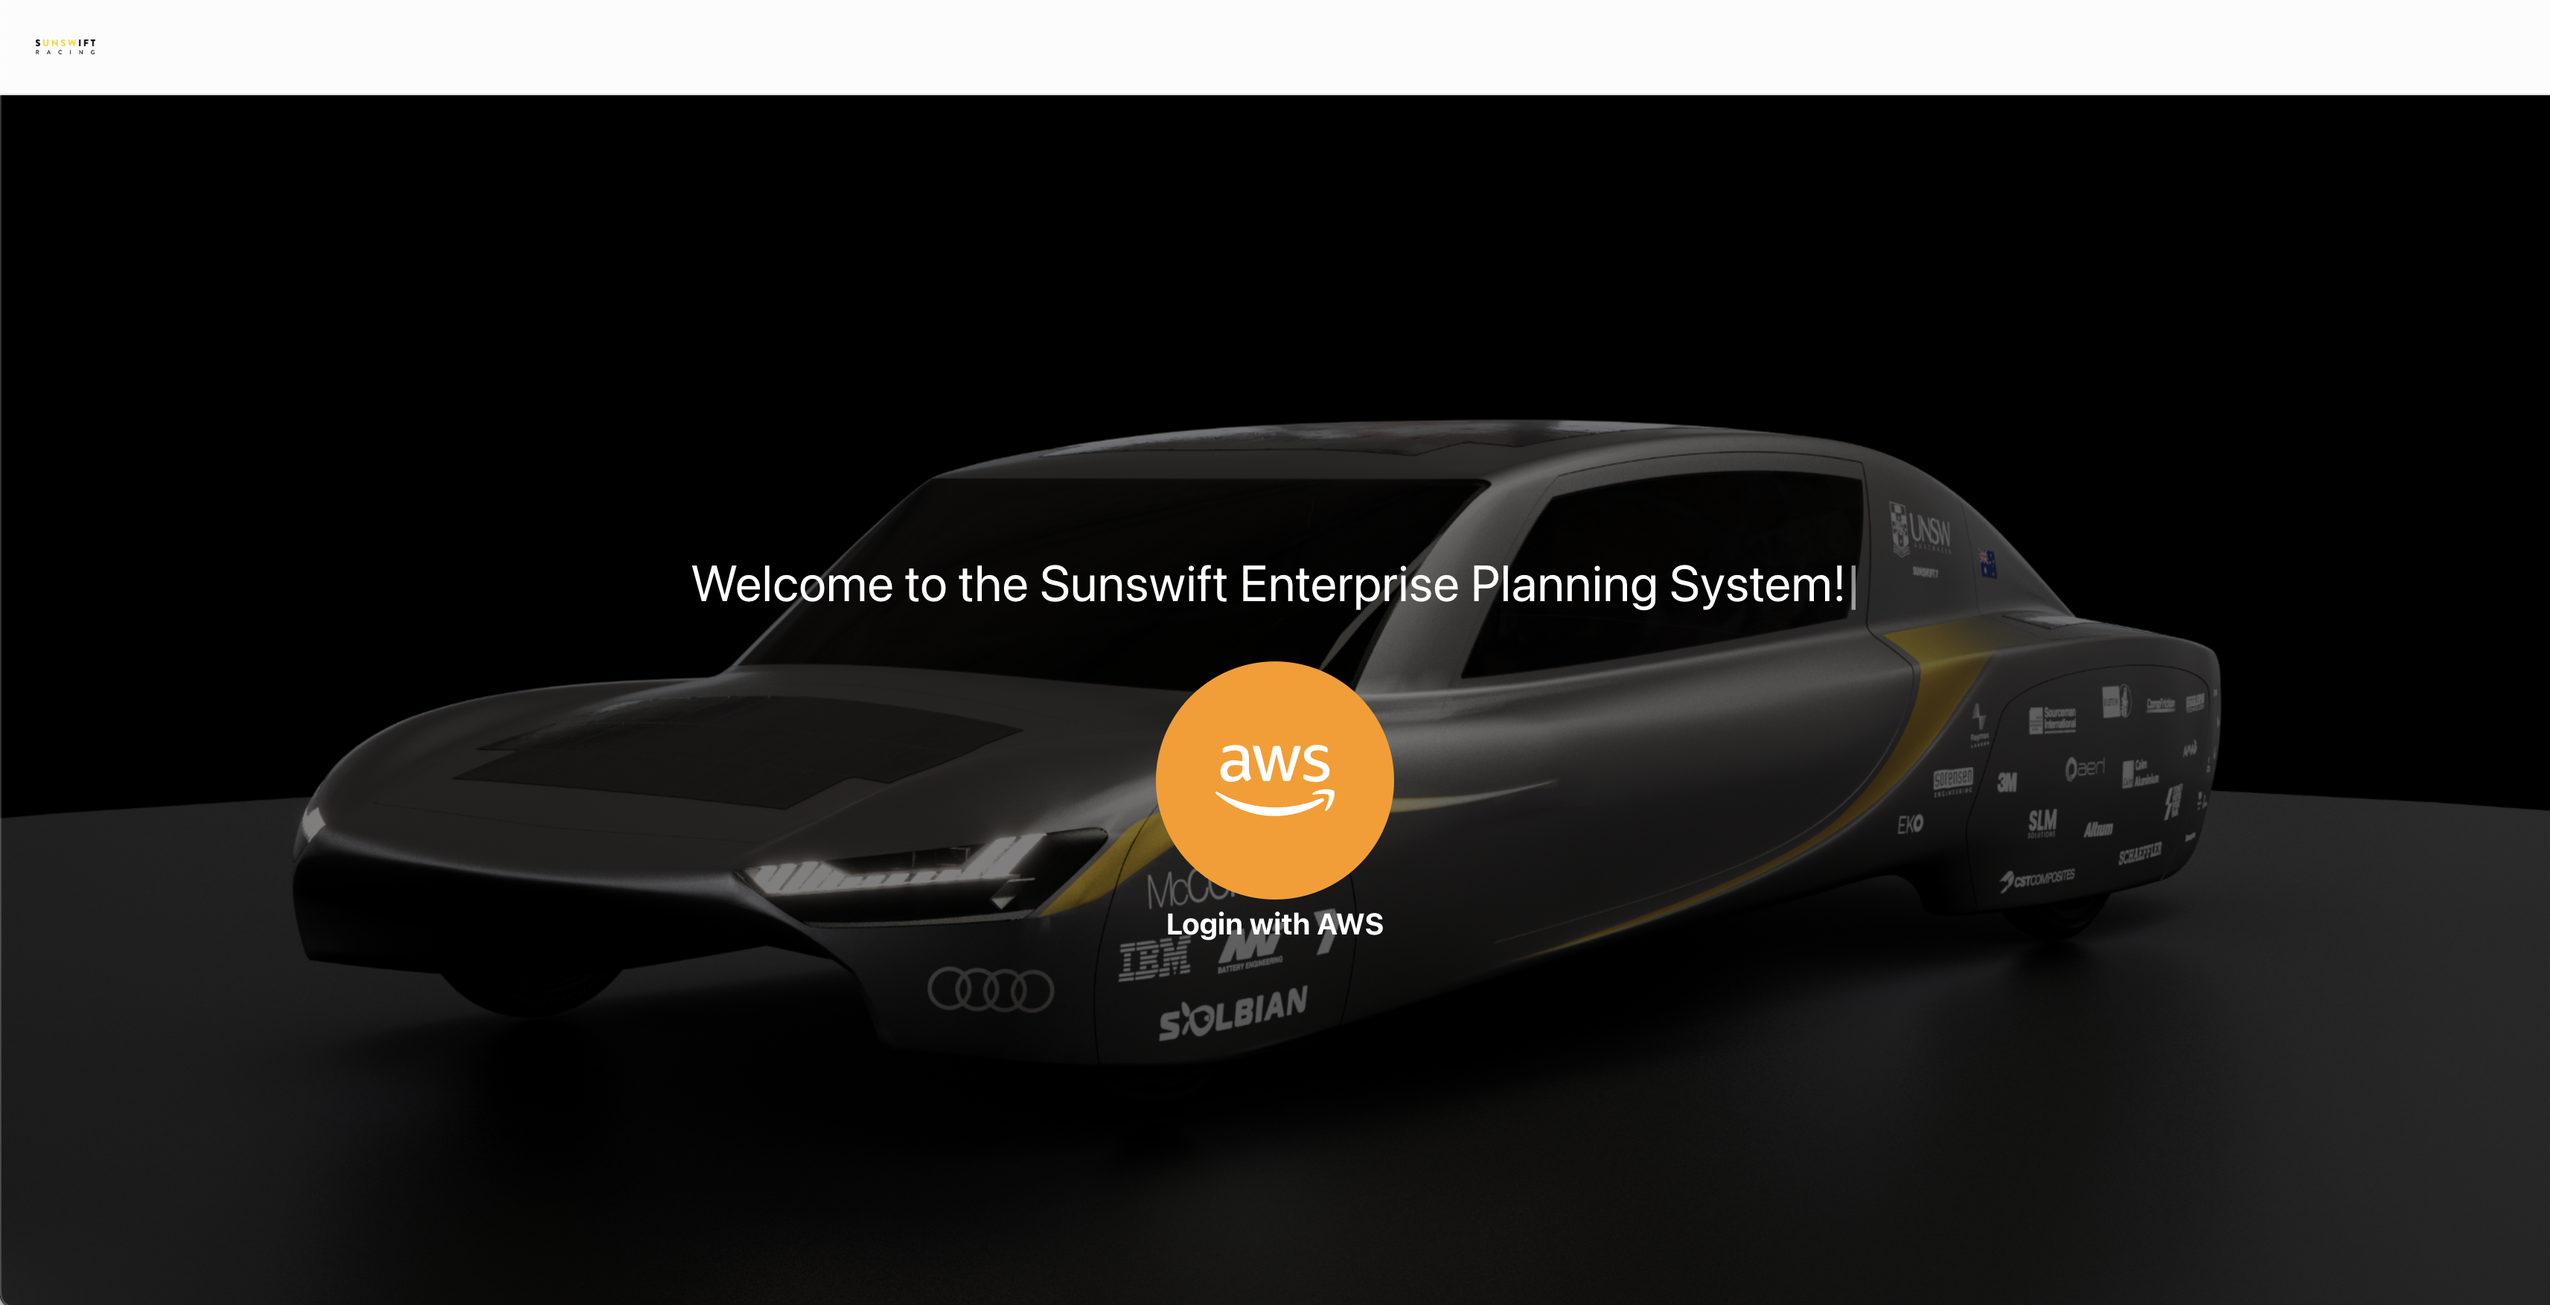
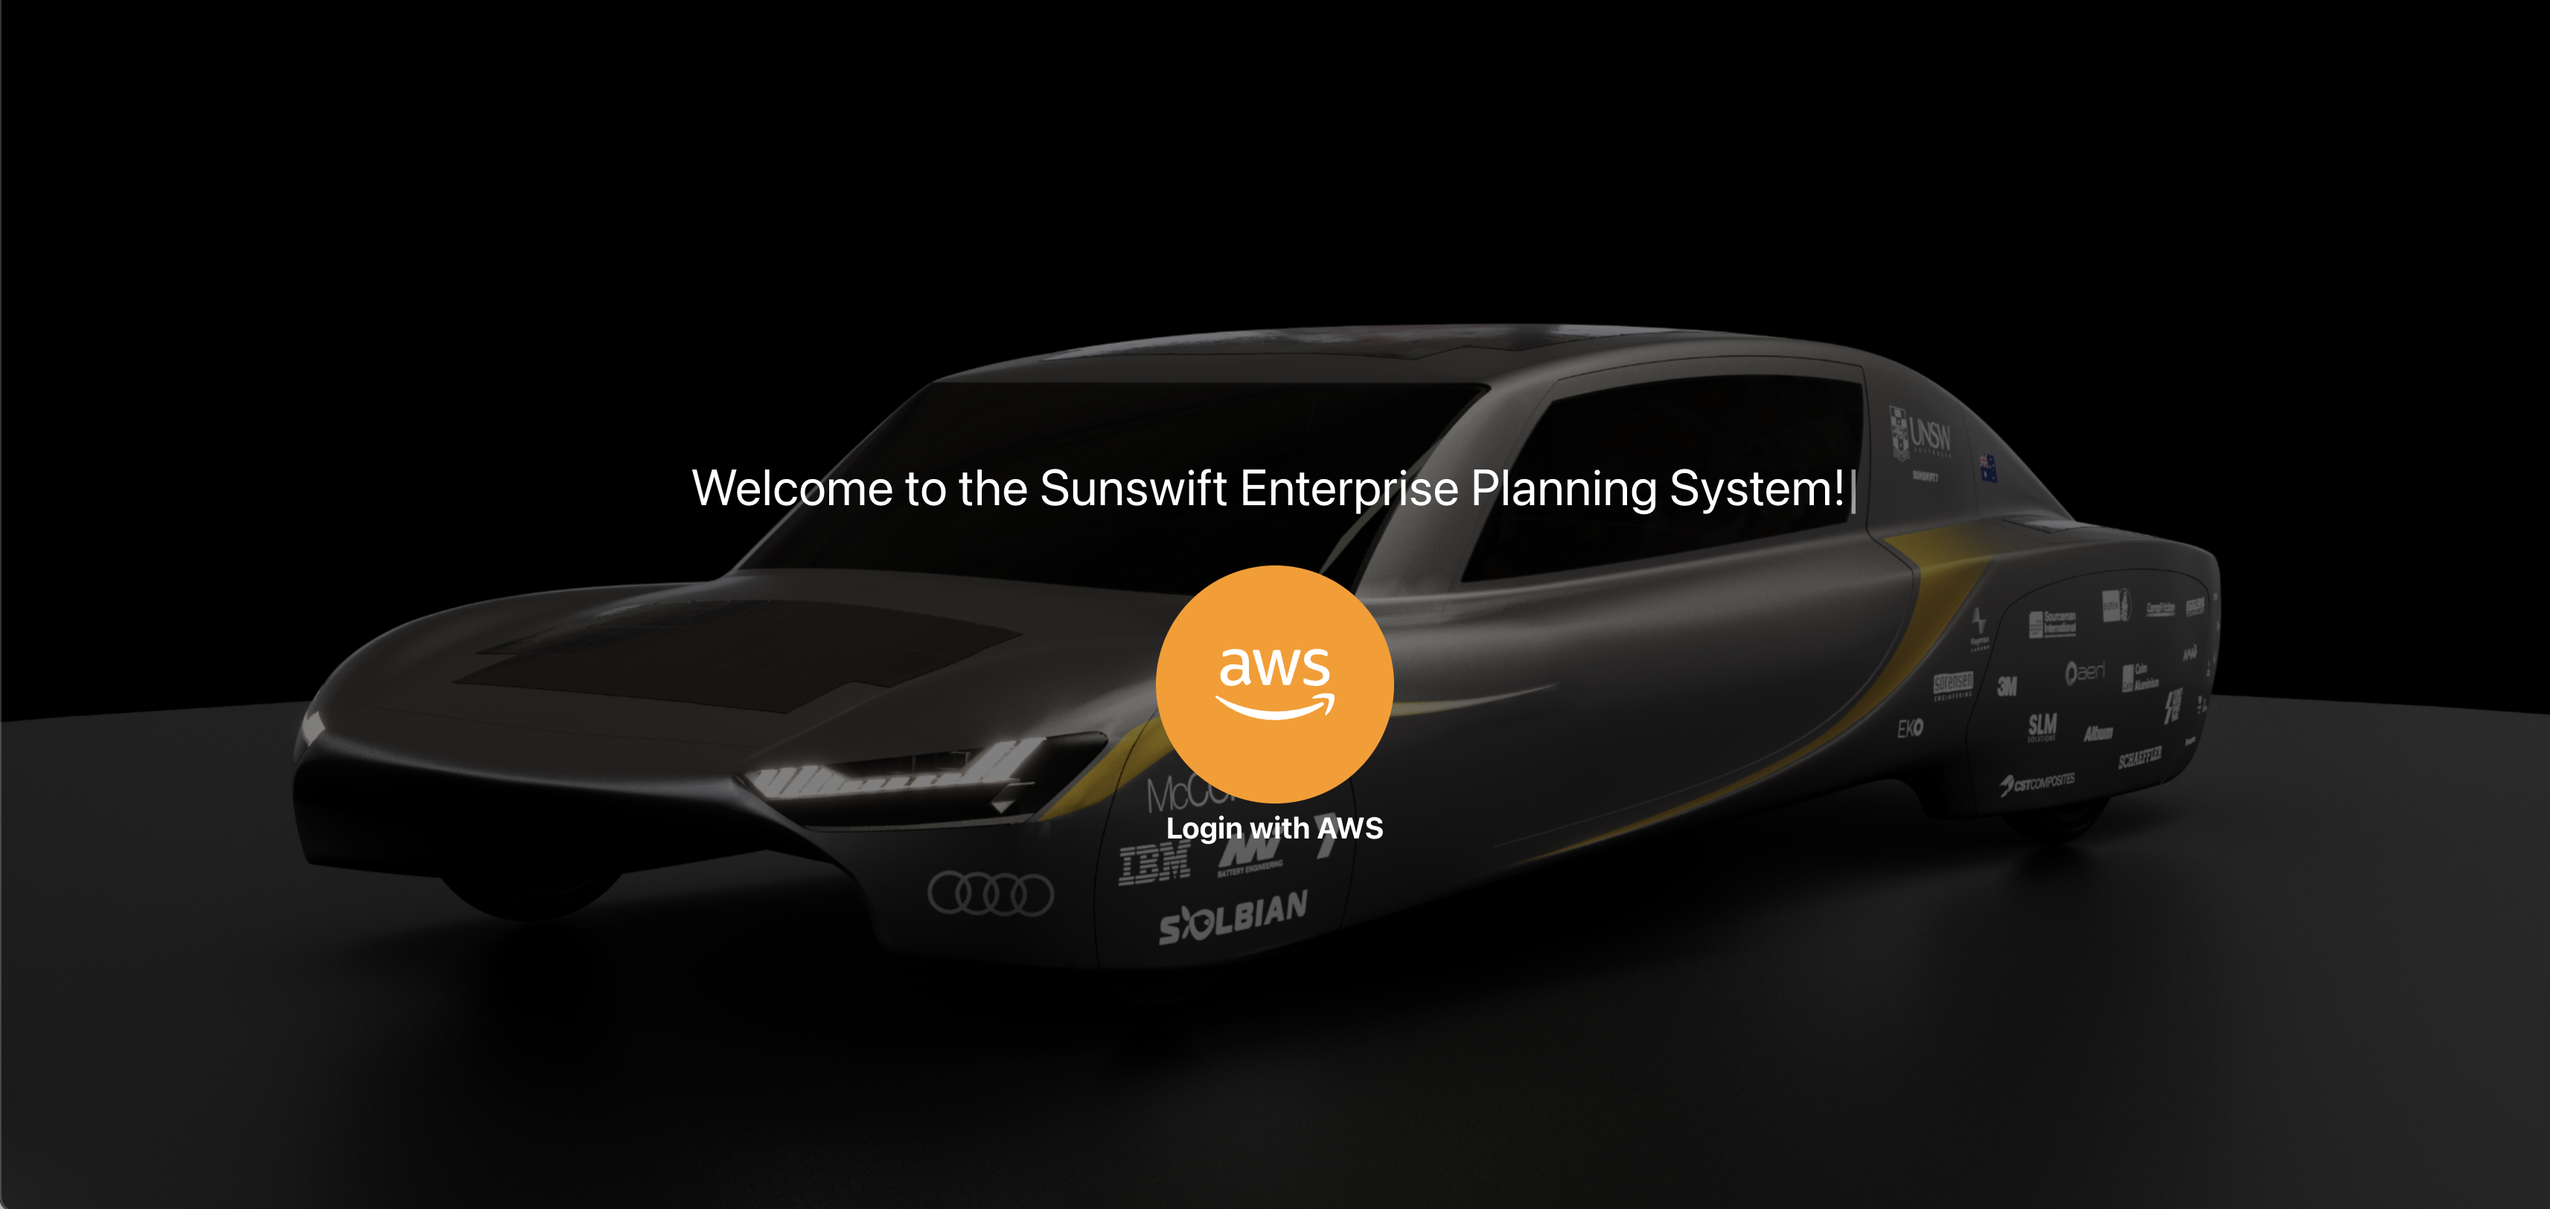
changed frontpage layout

Changed region(s): [[0.0, 0.2462, 1.0, 0.8], [0.0, 0.0, 1.0, 0.0923], [0.1249, 0.7077, 0.1874, 0.7692]]

diff --git a/src/components/Nav.svelte b/src/components/Nav.svelte
@@ -6,31 +6,42 @@
 
 
 
-<nav class="sticky top-3 z-50">
-  <div class="max-w-screen-xl flex flex-wrap items-center justify-between mx-auto px-4">
-    <!-- <a href="#" class="flex items-center">
+<nav class="sticky top-0 z-50 bg-background bg-opacity-50">
+  <div class="flex flex-wrap items-center justify-between mx-auto px-4">
+    <a href="#" class="flex items-center md:hidden">
         <img src={placeholderLogo} class="h-8 mr-3" alt="Logo" />
-    </a> -->
-    <div class="flex w-auto justify-self-end" id="navbar">
-      <ul class="hidden font-medium flex p-4 mt-3 rounded-lg space-x-8 border-0 ">
+    </a>
+    <button data-collapse-toggle="navbar-default" type="button" class="hidden sm:inline-flex sm:items-center sm:p-2 sm:w-10 sm:h-10 sm:justify-center sm:text-sm  sm:rounded-lg  sm:focus:outline-none sm:focus:ring-2" aria-controls="navbar-default" aria-expanded="false">
+      <span class="sr-only">Open navigation menu</span>
+      <Icon icon="iconamoon:menu-burger-horizontal-bold" width="2rem"/>
+    </button>
+    <div class="flex w-auto justify-self-end md:hidden" id="navbar">
+      <ul class="font-medium flex p-4 mt-3 rounded-lg space-x-8 border-0 ">
         <li>
-          <a href="#" class="block text-text py-2 pl-3 pr-4 rounded  hover:bg-transparent border-0  md:p-0 dark:hover:bg-transparent">About</a>
+          <a href="#" class="block text-text font-light brightness-75 py-2 pl-3 pr-4 rounded  hover:bg-transparent border-0 md:p-0 dark:hover:bg-transparent">ABOUT</a>
+        </li>
+        <li class="block py-2 text-text font-light brightness-75 align-middle md:p-0">
+            //
         </li>
         <li>
-          <a href="#" class="block text-text py-2 pl-3 pr-4 rounded  hover:bg-transparent border-0  md:p-0 dark:hover:bg-transparent">Services</a>
+          <a href="#" class="block text-text font-light brightness-75 py-2 pl-3 pr-4 rounded  hover:bg-transparent border-0  md:p-0 dark:hover:bg-transparent">SKILLS</a>
+        </li>
+        <li class="block py-2 text-text font-light brightness-75 align-middle md:p-0">
+          //
         </li>
         <li>
-          <a href="#" class="block text-text py-2 pl-3 pr-4 rounded  hover:bg-transparent border-0  md:p-0 dark:hover:bg-transparent">Contact</a>
+          <a href="#" class="block text-text font-light brightness-75 py-2 pl-3 pr-4 rounded  hover:bg-transparent border-0  md:p-0 dark:hover:bg-transparent">PROJECTS</a>
+        </li>
+        <li class="block py-2 text-text font-light brightness-75 align-middle md:p-0">
+          //
+        </li>
+        <li>
+          <a href="#" class="block text-text font-light brightness-75 py-2 pl-3 pr-4 rounded  hover:bg-transparent border-0  md:p-0 dark:hover:bg-transparent">CONTACT</a>
         </li>
       </ul>
     </div>
     <div class="flex justify-self-end text-text">
       <ToggleTheme/>
-      <button data-collapse-toggle="navbar-default" type="button" class="hidden sm:inline-flex sm:items-center sm:p-2 sm:w-10 sm:h-10 sm:justify-center sm:text-sm  sm:rounded-lg  sm:focus:outline-none sm:focus:ring-2" aria-controls="navbar-default" aria-expanded="false">
-        <span class="sr-only">Open navigation menu</span>
-        <Icon icon="iconamoon:menu-burger-horizontal-bold" width="2rem"/>
-    </button>
     </div>
-    
   </div>
 </nav>

diff --git a/src/App.svelte b/src/App.svelte
@@ -13,10 +13,21 @@
   import { fade, blur, fly, slide, scale } from "svelte/transition";
   import { quintOut } from "svelte/easing";
   import {flip} from "svelte/animate";
+  import { onMount } from 'svelte';
+  import Footer from './components/Footer.svelte';
+  import About from './components/About.svelte';
 
   let backToTopButton = null;
   let scrolled = false;
   let projects = []
+
+  // onMount(() => {
+  //   const load = document.querySelectorAll(".load");
+  //    console.log('loading')
+  //   for (var i = 0; i < load.length; i++) {
+  //     load[i].classList.add("active");
+  // }
+  // });
 
   ProjectData.subscribe(data => {
     projects  = data
@@ -63,12 +74,32 @@ const handleTop = () => {
 <svelte:window on:scroll={handleScroll}/> 
 
 <main>
-  <div class="flex items-start justify-between">
-    <Hero/>
-  <ToggleTheme/>
-  </div>
+  <Nav/>
+  <section class="flex items-start justify-between">
+    <!-- <Hero/> -->
+    <About/>
+    <!-- <ToggleTheme/> -->
+  </section>
   <!-- <CTAButton message="CTA test hello" href="/"/> -->
-    <div class="flex justify-center space-y-4">
+ 
+
+    <div class="flex flex-col [&>*:nth-child(even)]:flex-row-reverse md:[&>*:nth-child(even)]:flex-col space-y-4 text-text">
+      {#each projects as project (project.name)}
+      <div class="flex md:flex-col reveal">
+        <div class="max-w-fit flex">
+          <ProjectCard project={project}/>
+        </div>
+        <div class="mx-4 mb-4 pt-2 flex items-center justify-center">
+          <p>
+            Project descriptions
+          </p> 
+        </div>
+      </div>
+      
+      {/each}
+    </div>
+
+  <!-- <div class="flex justify-center space-y-4">
     <div class="grid grid-cols-3 xl:grid-cols-2 md:grid-cols-1 gap-4" >
       {#each projects as project (project.name)}
       <div class="reveal">
@@ -76,11 +107,13 @@ const handleTop = () => {
       </div>
       {/each}
     </div>
-  </div>
+  </div> -->
 
-    <button bind:this={backToTopButton} on:click={scrollToTop} class="hidden sticky bottom-10 left-10 bg-transparent transition-transform ease-in hover:-translate-y-1 float-right text-text focus:outline-none  font-medium rounded-lg text-sm p-1 text-center items-center -mr-10 xl:-mr-5">
-      <Icon icon="mingcute:up-fill" width="2rem"/>
-    </button>
+  <button bind:this={backToTopButton} on:click={scrollToTop} class="hidden sticky bottom-10 left-10 bg-transparent transition-transform ease-in hover:scale-110 float-right text-text focus:outline-none  font-medium rounded-lg text-sm p-1 text-center items-center -mr-10 xl:-mr-5">
+    <Icon icon="mingcute:up-fill" width="1.5rem"/>
+  </button>
+  <Footer/>
+
 </main>
 
 

diff --git a/src/components/Hero.svelte b/src/components/Hero.svelte
@@ -19,18 +19,18 @@
 
 
 
-<div class="flex flex-col items-center w-full md:mx-5" >
-  <div class="flex-col place-content-center">
+<div class="flex flex-col items-center text-left w-full my-5 md:mx-5" >
+  <!-- <div class="flex-col place-content-center"> -->
     {#if ready}
-    <h1 class="text-text text-xl brightness-75 reveal active">Hey there, I'm</h1>
-    <h1 class="font-bold text-text text-4xl mb-2 reveal active">Yunshu Dai</h1>
-    <h1 class="font-bold text-text text-xl brightness-75 reveal active">Software Engineer <a class="text-text font-bold transition-colors hover:text-accent hover:brightness-125" href="https://www.sunswift.com">@Sunswift Racing UNSW</a></h1>
-    <h1 class="font-bold text-text text-xl brightness-75 reveal active">Part time freelance illustrator</h1>
+    <h1 class="text-text text-xl brightness-75 reveal active">HEY THERE, I'M</h1>
+    <h1 class="font-bold font-sourcesans tracking-wide text-text text-6xl mb-2 reveal active">Yunshu Dai</h1>
+    <h1 class="font-bold text-text text-xl brightness-75 reveal active">Software Engineer <a class="text-text font-bold transition-colors hover:text-accent hover:brightness-125" href="https://www.sunswift.com">@Sunswift Racing UNSW,</a></h1>
+    <h1 class="font-bold text-text text-xl brightness-75 reveal active">Part time freelance illustrator,</h1>
     <h1 class="font-bold text-text text-xl brightness-75 reveal active">UNSW Computer Science/Media Arts</h1>
-    <div class="justify-content-left text-text place-content-center max-w-4xl my-5 brightness-75 reveal active">
+    <!-- <div class="justify-content-left text-text place-content-center max-w-4xl my-5 brightness-75 reveal active">
       Hey there! I'm a aspiring software engineer with a passion for <strong class="brightness-200">fullstack web development</strong> and <strong class="brightness-200">design</strong>. I love solving problems with software and crafting solutions that that are fun and functional. 
-    </div>
+    </div> -->
     {/if}
-  </div>
+  <!-- </div> -->
 </div>
 

diff --git a/src/components/ToggleTheme.svelte b/src/components/ToggleTheme.svelte
@@ -1,5 +1,7 @@
 <script>
     import Icon from '@iconify/svelte';
+  import { writable } from 'svelte/store';
+  import { theme } from '../stores/Config';
   
     let darkMode = localStorage.theme === 'dark' || (!('theme' in localStorage) && window.matchMedia('(prefers-color-scheme: dark)').matches)
     $: icon = darkMode ? "iconamoon:mode-light-fill" : "iconamoon:mode-dark-fill" 
@@ -11,9 +13,13 @@
 
         localStorage.setItem('theme', darkMode ? 'dark' : 'light');
 
-        darkMode
-            ? document.documentElement.classList.add('dark')
-            : document.documentElement.classList.remove('dark');
+        if (darkMode) {
+          document.documentElement.classList.add('dark');
+          theme.set('dark')
+        } else {
+          document.documentElement.classList.remove('dark');
+          theme.set('light')
+        }
 
         animate = true;
         setTimeout(() => {
@@ -22,18 +28,11 @@
     }
 
     if (localStorage.theme === 'dark' || (!('theme' in localStorage) && window.matchMedia('(prefers-color-scheme: dark)').matches)) {
-      document.documentElement.classList.add('dark')
+      document.documentElement.classList.add('dark');
       } else {
-      document.documentElement.classList.remove('dark')
+      document.documentElement.classList.remove('dark');
       }
 </script>
-
-<!-- <button type="button" on:click={handleToggle} class="text-text focus:outline-none active:outline-none font-medium rounded-lg text-sm p-1 text-center inline-flex items-center mr-2 transition ease-in duration-600 active:-translate-y-2 active:opacity-0 opacity-100">
-    <div class="text-text outline-none">
-        <Icon icon={icon} width="1.5rem"/>   
-    </div>
-    <span class="sr-only">Toggle dark/light mode</span>
-  </button> -->
   {#if animate}
   <button type="button" on:click={handleToggle} class="animate-fade toggleThemeButton">
     <div class="text-text outline-none">

diff --git a/src/components/Footer.svelte b/src/components/Footer.svelte
@@ -1,0 +1,43 @@
+<script>
+  import Icon from '@iconify/svelte';
+  import { theme } from '../stores/Config';
+  
+  let isLight;
+  theme.subscribe((data)=> {
+    data === 'light' ? isLight = true : isLight = false;
+  })
+</script>
+
+
+<!-- Foooter -->
+<section class="bg-background brightness-110 w-screen absolute flex content-center left-0 mt-20 py-20 text-text">
+  <div class="px-4 py-12 mx-auto overflow-hidden">
+      <div class="flex justify-center space-x-4 dim">
+          <a href="#" class:lightenText={isLight} class="text-text hover:scale-110 transition-all">
+              <span class="sr-only">GitHub</span>
+              <Icon icon="mdi:github" width="1.5rem"/>
+          </a>
+          <a href="#" class:lightenText={isLight} class="text-text hover:scale-110 transition-all">
+              <span class="sr-only">Linkedin</span>
+              <Icon icon="mdi:linkedin" width="1.5rem"/>
+          </a>
+          <a href="#" class:lightenText={isLight} class="text-text hover:scale-110 transition-all">
+            <span class="sr-only">GitHub</span>
+            <Icon icon="mdi:email-send-outline" width="1.5rem" />
+        </a>
+      </div>
+      <p class:lightenText={isLight} class="mt-6 leading-6 text-xl font-bold dim text-text">
+        Designed and built by Yunshu Dai
+      </p>
+      <p class:lightenText={isLight} class="leading-6 text-sm text-center dim text-text">
+          Made with Svelte and TailwindCSS
+      </p>
+  </div>
+</section>
+
+
+<style>
+  .lightenText { 
+  color: #5c5c59;
+  }
+</style>

diff --git a/src/components/About.svelte b/src/components/About.svelte
@@ -1,0 +1,30 @@
+<script>
+  import { fade, blur, fly, slide, scale } from "svelte/transition";
+  import { quintOut } from "svelte/easing";
+  import { onMount } from 'svelte';
+
+  let ready = false;
+
+  onMount(() => {
+    ready = true;
+    const reveals = document.querySelectorAll(".reveal");
+    for (var i = 0; i < reveals.length; i++) {
+      reveals[i].classList.add("active");
+      // setTimeout(() => reveals[i].classList.add("active"), 200)
+    }
+  });
+</script>
+
+
+
+
+
+<div class="flex flex-col items-center text-left w-full my-5 md:mx-5" >
+    {#if ready}
+    <!-- <h1 class="text-text text-xl brightness-75 reveal">HI, I'M</h1> -->
+    <h1 class="font-bold font-sourcesans tracking-wide text-text text-6xl mb-2 reveal">Hi, I'm Yunshu Dai</h1>
+    <h1 class="font-bold text-text text-xl brightness-75 reveal ">Software Engineer <a class="text-text font-bold transition-colors hover:text-accent hover:brightness-125" href="https://www.sunswift.com">@Sunswift Racing UNSW,</a></h1>
+    <h1 class="font-bold text-text text-xl brightness-75 reveal">Part time freelance illustrator,</h1>
+    <h1 class="font-bold text-text text-xl brightness-75 reveal">UNSW Computer Science/Media Arts</h1>
+    {/if}
+</div>

diff --git a/src/stores/ProjectData.js b/src/stores/ProjectData.js
@@ -5,6 +5,19 @@ import sunswift from "../assets/project_sunswift_erp.png"
 
 const ProjectData =  writable([
     {
+        name: "Sunswift ERP",
+        description: "Enterprise resource management project created for Sunswift UNSW",
+        img: sunswift,
+        skills : [
+            "JavaScript",
+            "React",
+            "Rest API",
+            "Python",
+            "AWS",
+            "PostgreSQL"
+        ]
+    },
+    {
         name: "Cuppa",
         description: "A minimalist MacOS menubar widget for keeping your mac screen awake",
         img: cuppa,
@@ -22,19 +35,6 @@ const ProjectData =  writable([
             "Node.js",
             "TypeScript",
             "SQLite"
-        ]
-    },
-    {
-        name: "Sunswift ERP",
-        description: "Enterprise resource management project created for Sunswift UNSW",
-        img: sunswift,
-        skills : [
-            "JavaScript",
-            "React",
-            "Rest API",
-            "Python",
-            "AWS",
-            "PostgreSQL"
         ]
     },
     // {

diff --git a/index.html b/index.html
@@ -1,6 +1,11 @@
 <!doctype html>
 <html lang="en">
   <head>
+    <link rel="preconnect" href="https://fonts.googleapis.com">
+    <link rel="preconnect" href="https://fonts.gstatic.com" crossorigin>
+    <link
+      href="https://fonts.googleapis.com/css2?family=Source+Sans+3:ital,wght@0,200;0,300;0,400;0,500;0,600;0,700;0,800;1,200;1,300;1,400;1,600;1,700;1,800&display=swap"
+      rel="stylesheet">
     <meta charset="UTF-8" />
     <link rel="icon" type="image/svg+xml" href="/vite.svg" />
     <meta name="viewport" content="width=device-width, initial-scale=1.0" />

diff --git a/src/stores/Config.js b/src/stores/Config.js
@@ -1,0 +1,4 @@
+import { writable } from "svelte/store";
+
+// used for variables that are edited by multiple - kind of like useContext
+export const theme = writable('dark');
